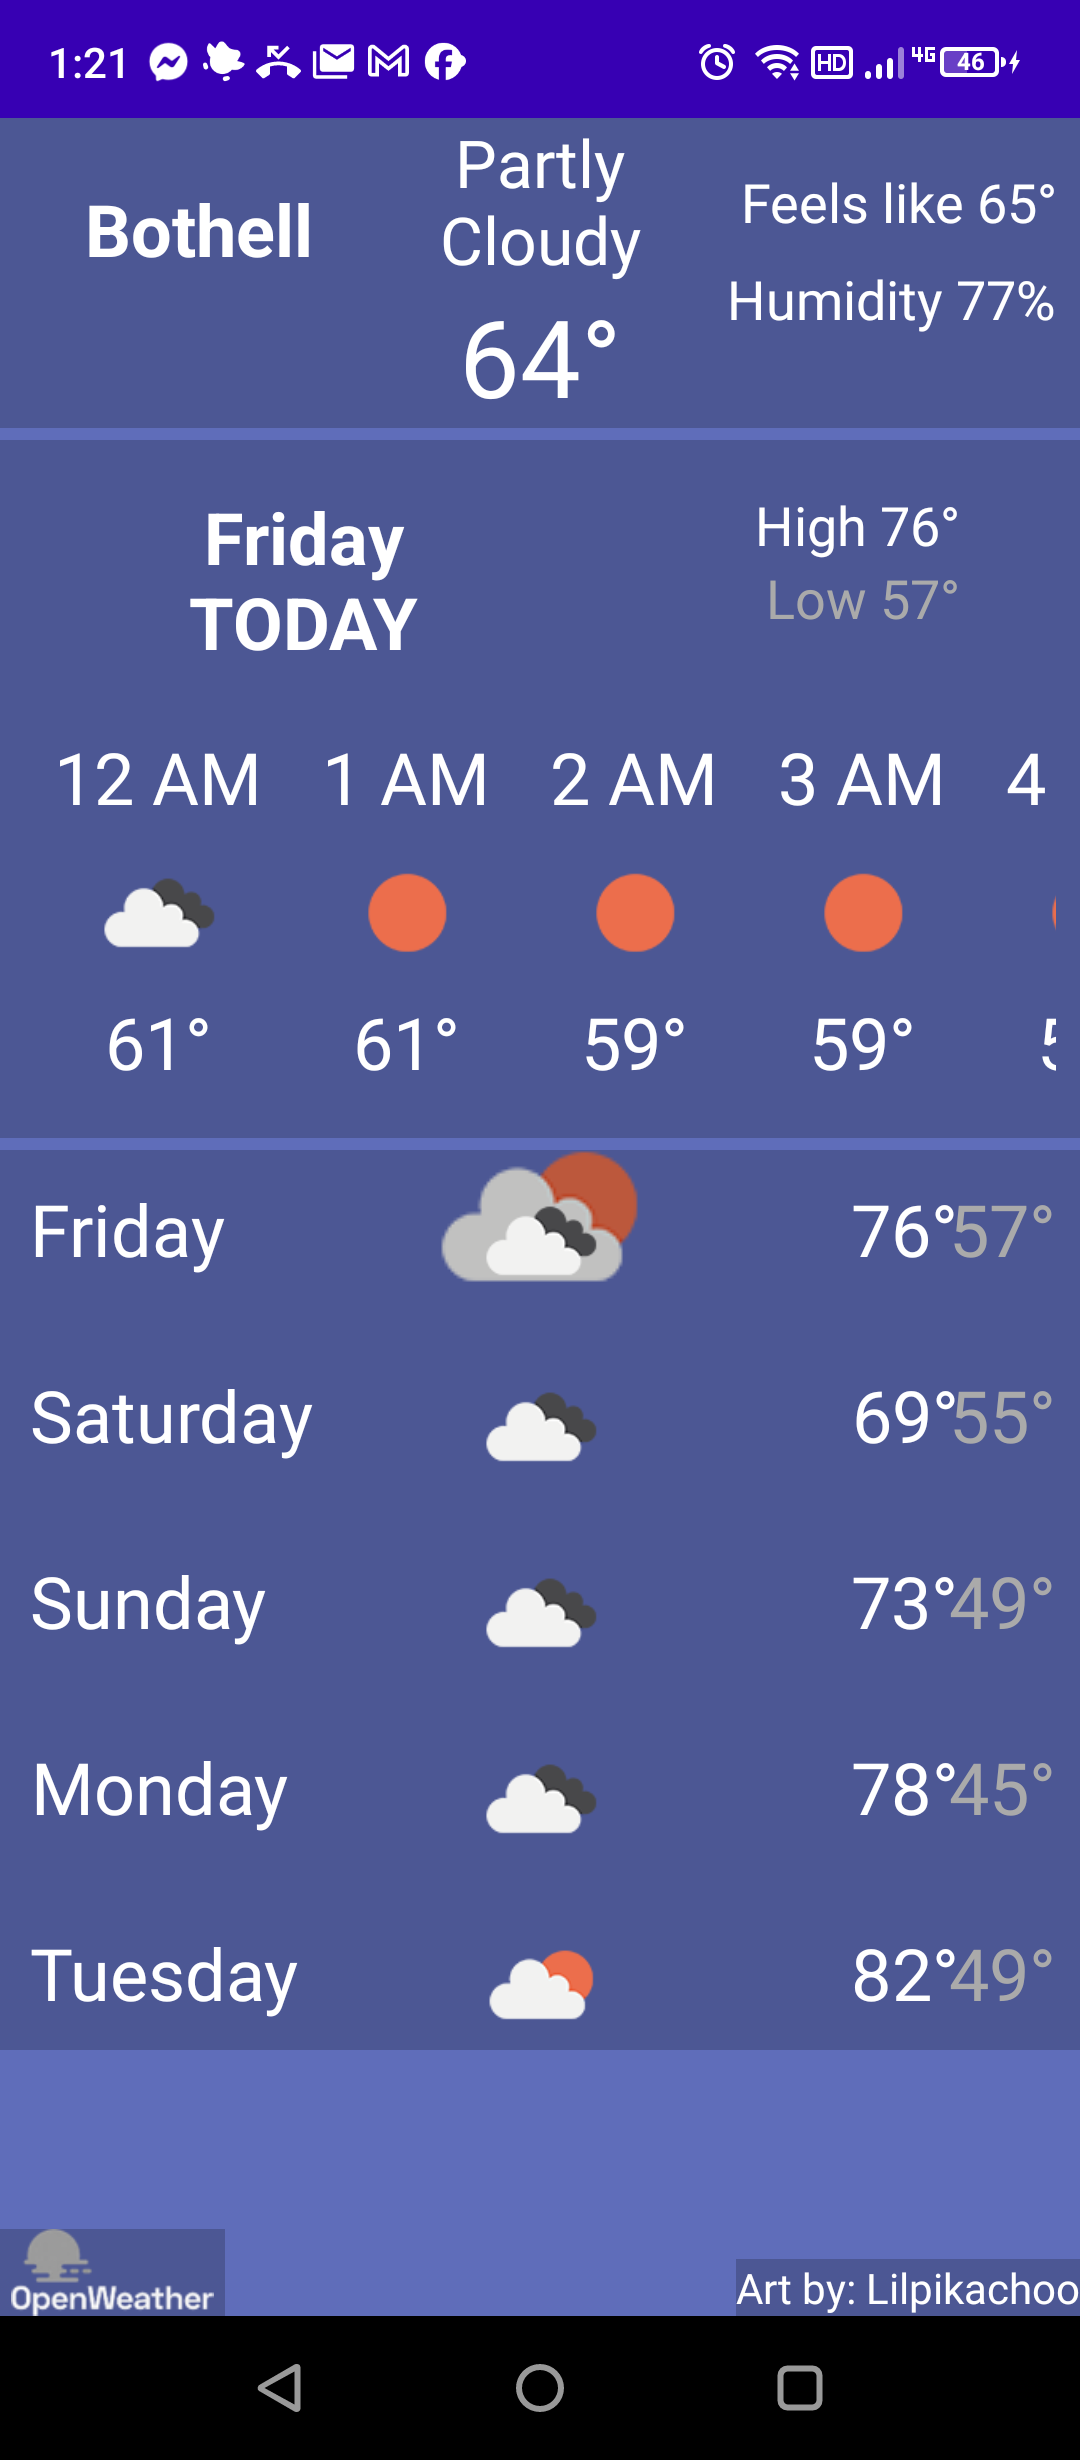
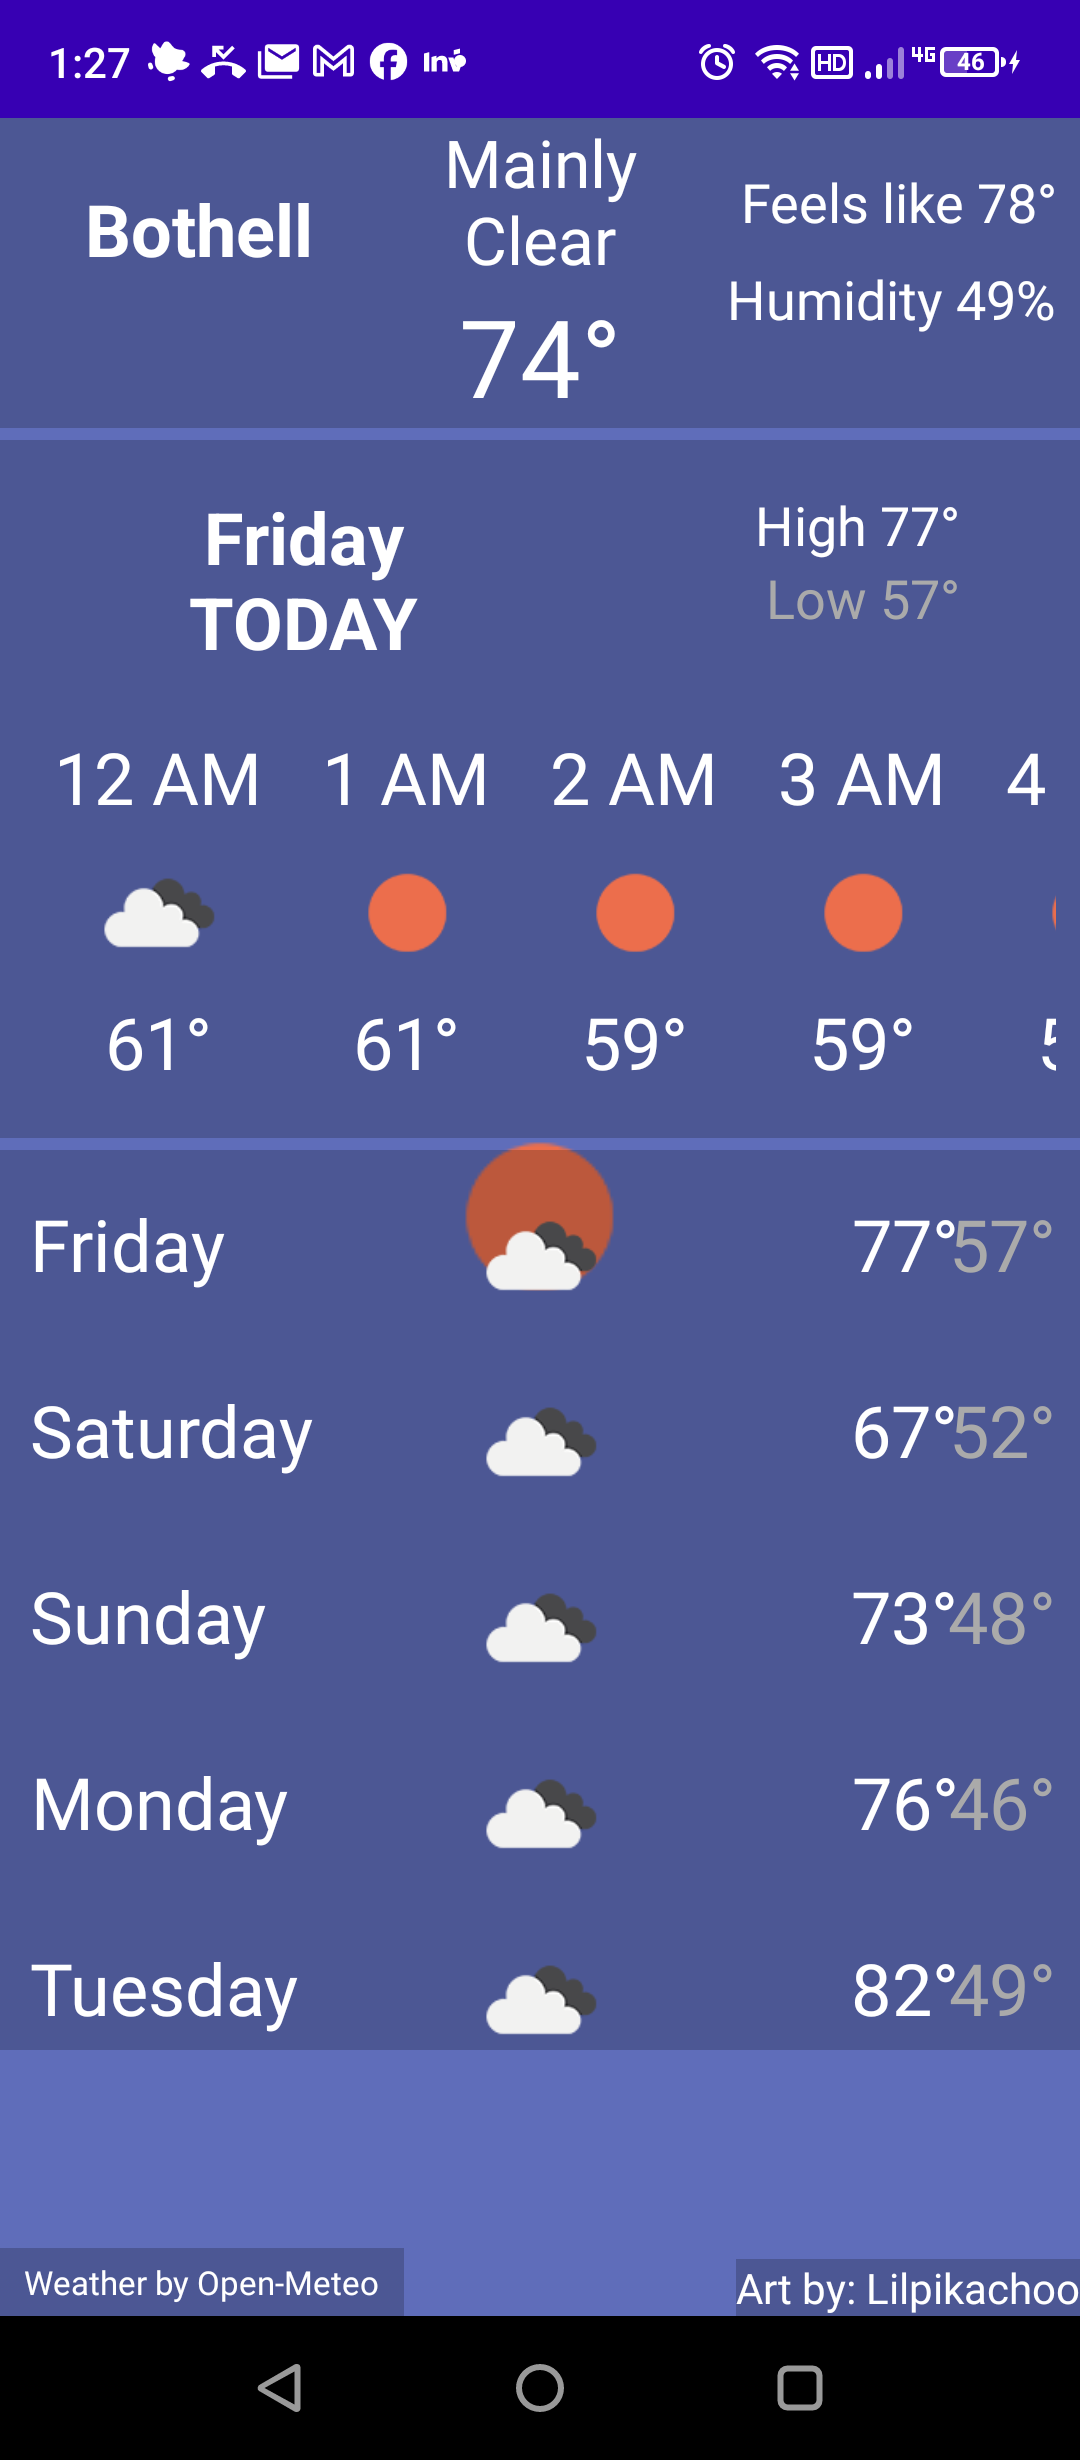
chore: credit Open-Meteo (not OpenWeather) in-app and in docs
The app was migrated off OpenWeatherMap to Open-Meteo, but the UI and
README still credited OpenWeather:
- Replace the bottom-left OpenWeather logo with a 'Weather by Open-Meteo'
  text credit that links to open-meteo.com, and delete the unused logo.
- Update the README: Weather-data section, Tech Stack (Open-Meteo, keyless),
  Features, and Getting Started (no API key needed).
- Refresh the screenshots so they show the new credit.

diff --git a/app/src/main/java/com/timapps/weatha/ui/main/MainFragment.java b/app/src/main/java/com/timapps/weatha/ui/main/MainFragment.java
@@ -37,7 +37,7 @@ public class MainFragment extends Fragment {
     private ImageView weatherIcon;
     private TextView cityLableText;
     private TextView artCreditText;
-    private ImageView weatherDataCreditImage;
+    private TextView weatherDataCreditImage;
     private ConstraintLayout weatherContainer;
     private ConstraintLayout cityContainer;
 
@@ -92,7 +92,7 @@ public class MainFragment extends Fragment {
         weatherIcon = (ImageView) view.findViewById(R.id.weatherIcon);
         cityLableText = (TextView) view.findViewById(R.id.todayHeaderText);
         artCreditText = (TextView) view.findViewById(R.id.artCreditText);
-        weatherDataCreditImage = (ImageView) view.findViewById(R.id.weatherDataCreditImage);
+        weatherDataCreditImage = (TextView) view.findViewById(R.id.weatherDataCreditImage);
         weatherContainer = (ConstraintLayout) view.findViewById(R.id.weatherContainer);
         cityContainer = (ConstraintLayout) view.findViewById(R.id.cityContainer);
 
@@ -114,7 +114,7 @@ public class MainFragment extends Fragment {
                 Intent intent = new Intent();
                 intent.setAction(Intent.ACTION_VIEW);
                 intent.addCategory(Intent.CATEGORY_BROWSABLE);
-                intent.setData(Uri.parse("https://openweathermap.org"));
+                intent.setData(Uri.parse("https://open-meteo.com"));
                 startActivity(intent);
             }
         });

diff --git a/README.md b/README.md
@@ -13,17 +13,24 @@ An Android weather app built in Java that displays current weather conditions an
 | Feels-like and humidity, an hourly strip, and a 5-day daily forecast with highs/lows. | Saved locations with the current temp, a °C / °F toggle, and an add-location button. |
 
 ## Features
-- Current temperature, humidity, and conditions
-- Location-based weather lookup
+- Current temperature, feels-like, humidity, and conditions
+- Hourly strip and a 5-day daily forecast with highs/lows
+- Location-based weather lookup for your current location
+- °C / °F toggle and saved locations
 - Clean and intuitive UI
+
+## Weather data
+Weather comes from the **[Open-Meteo](https://open-meteo.com) API**, which is free and
+requires **no API key**. (The app originally used OpenWeatherMap's One Call 2.5 endpoint,
+which was shut down; it has since been migrated to Open-Meteo.)
 
 ## Tech Stack
 - **Language**: Java
 - **Platform**: Android
-- **API**: OpenWeatherMap
+- **Weather API**: Open-Meteo (free, keyless)
 - **Build**: Gradle / Android Studio
 
 ## Getting Started
-1. Get a free API key from [openweathermap.org](https://openweathermap.org/api)
-2. Add your key to the project config
-3. Open in Android Studio and run on a device or emulator
+1. Clone the repo and open it in Android Studio
+2. Run on a device or emulator — no API key or extra setup needed
+3. Grant location access so the app can show weather for where you are
